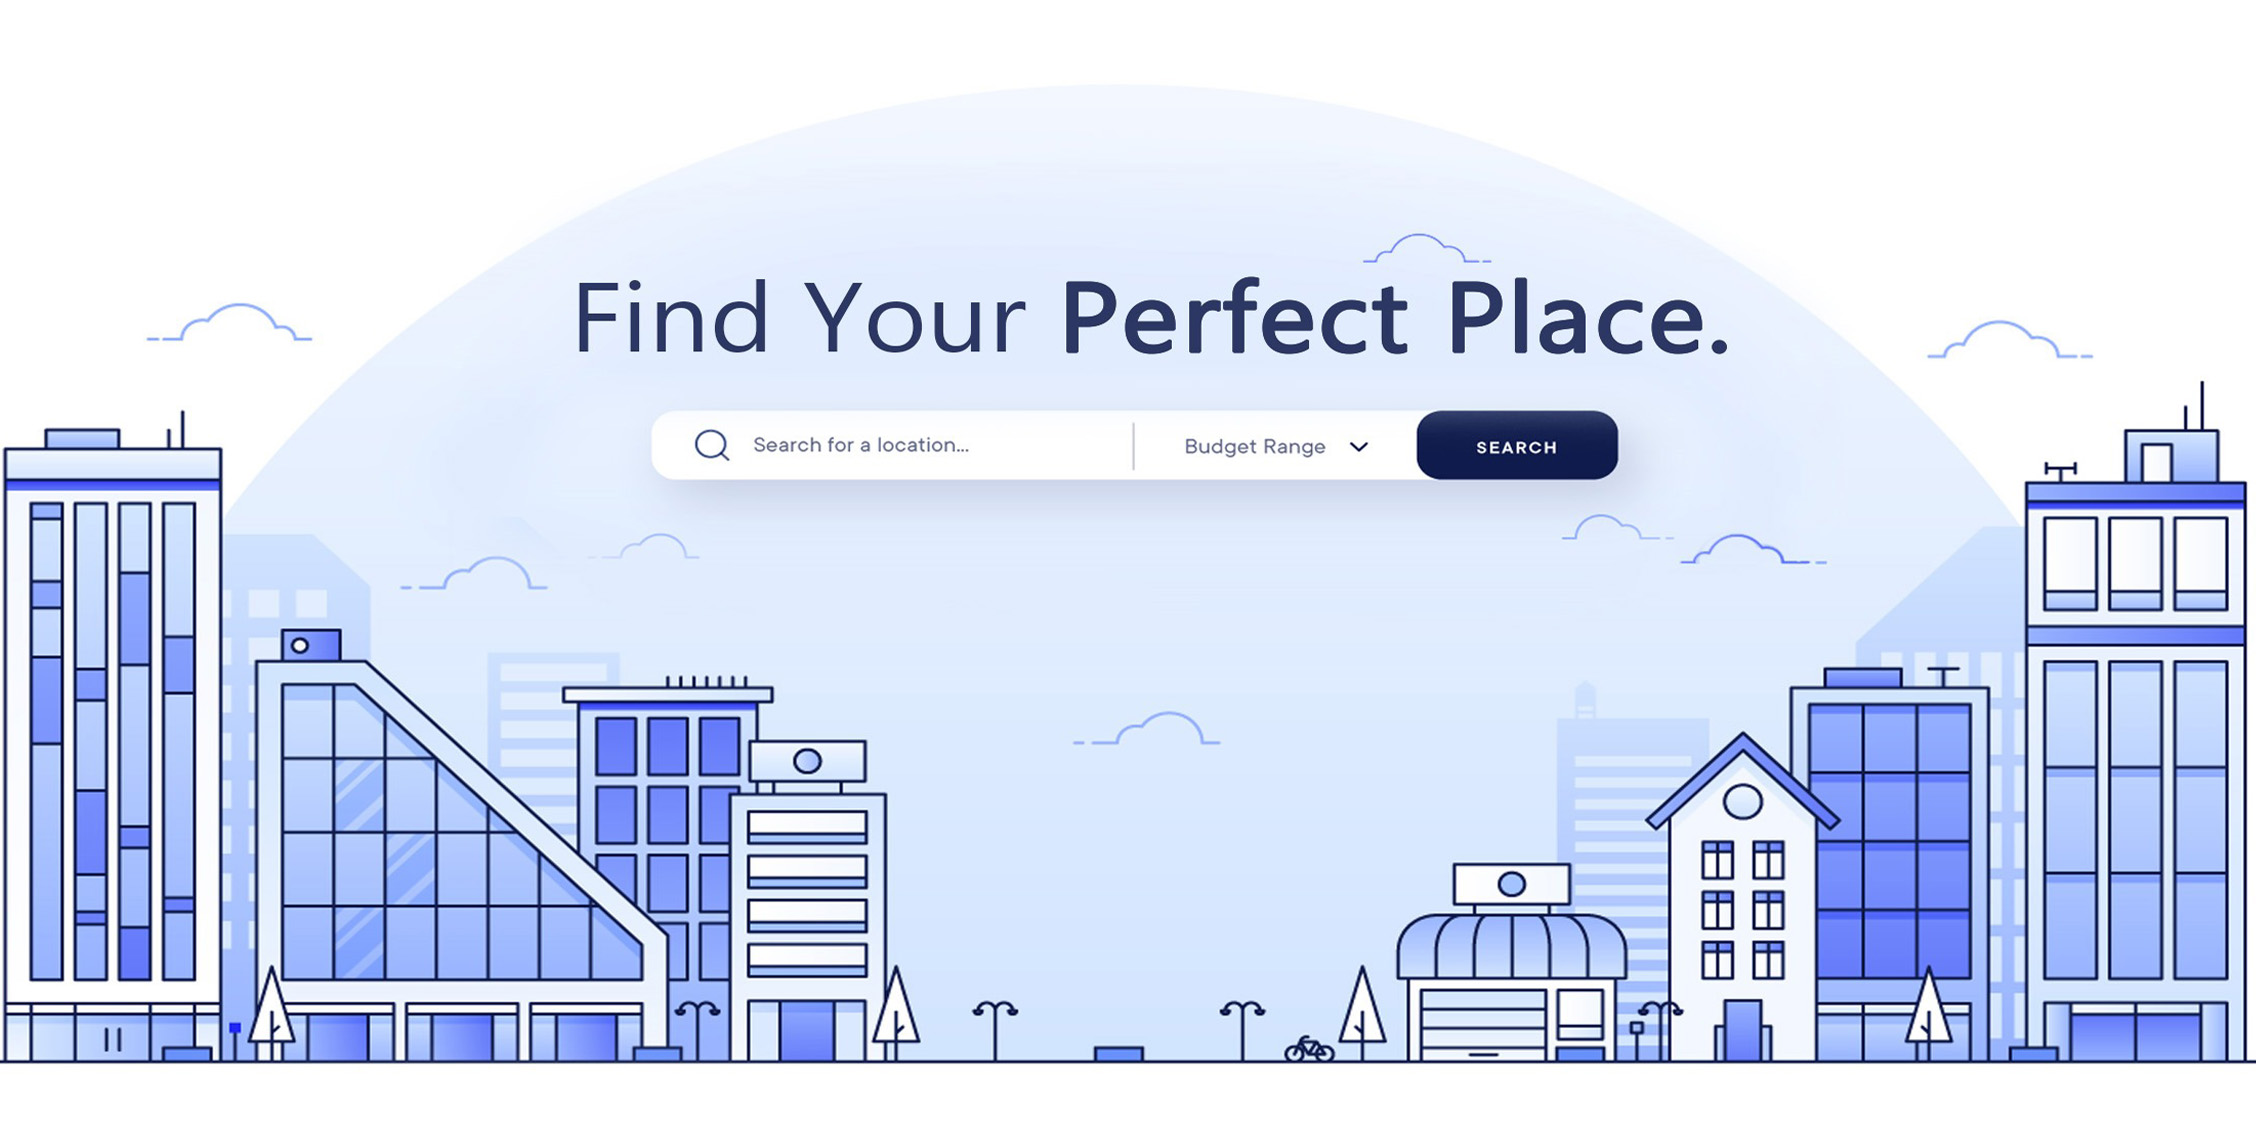
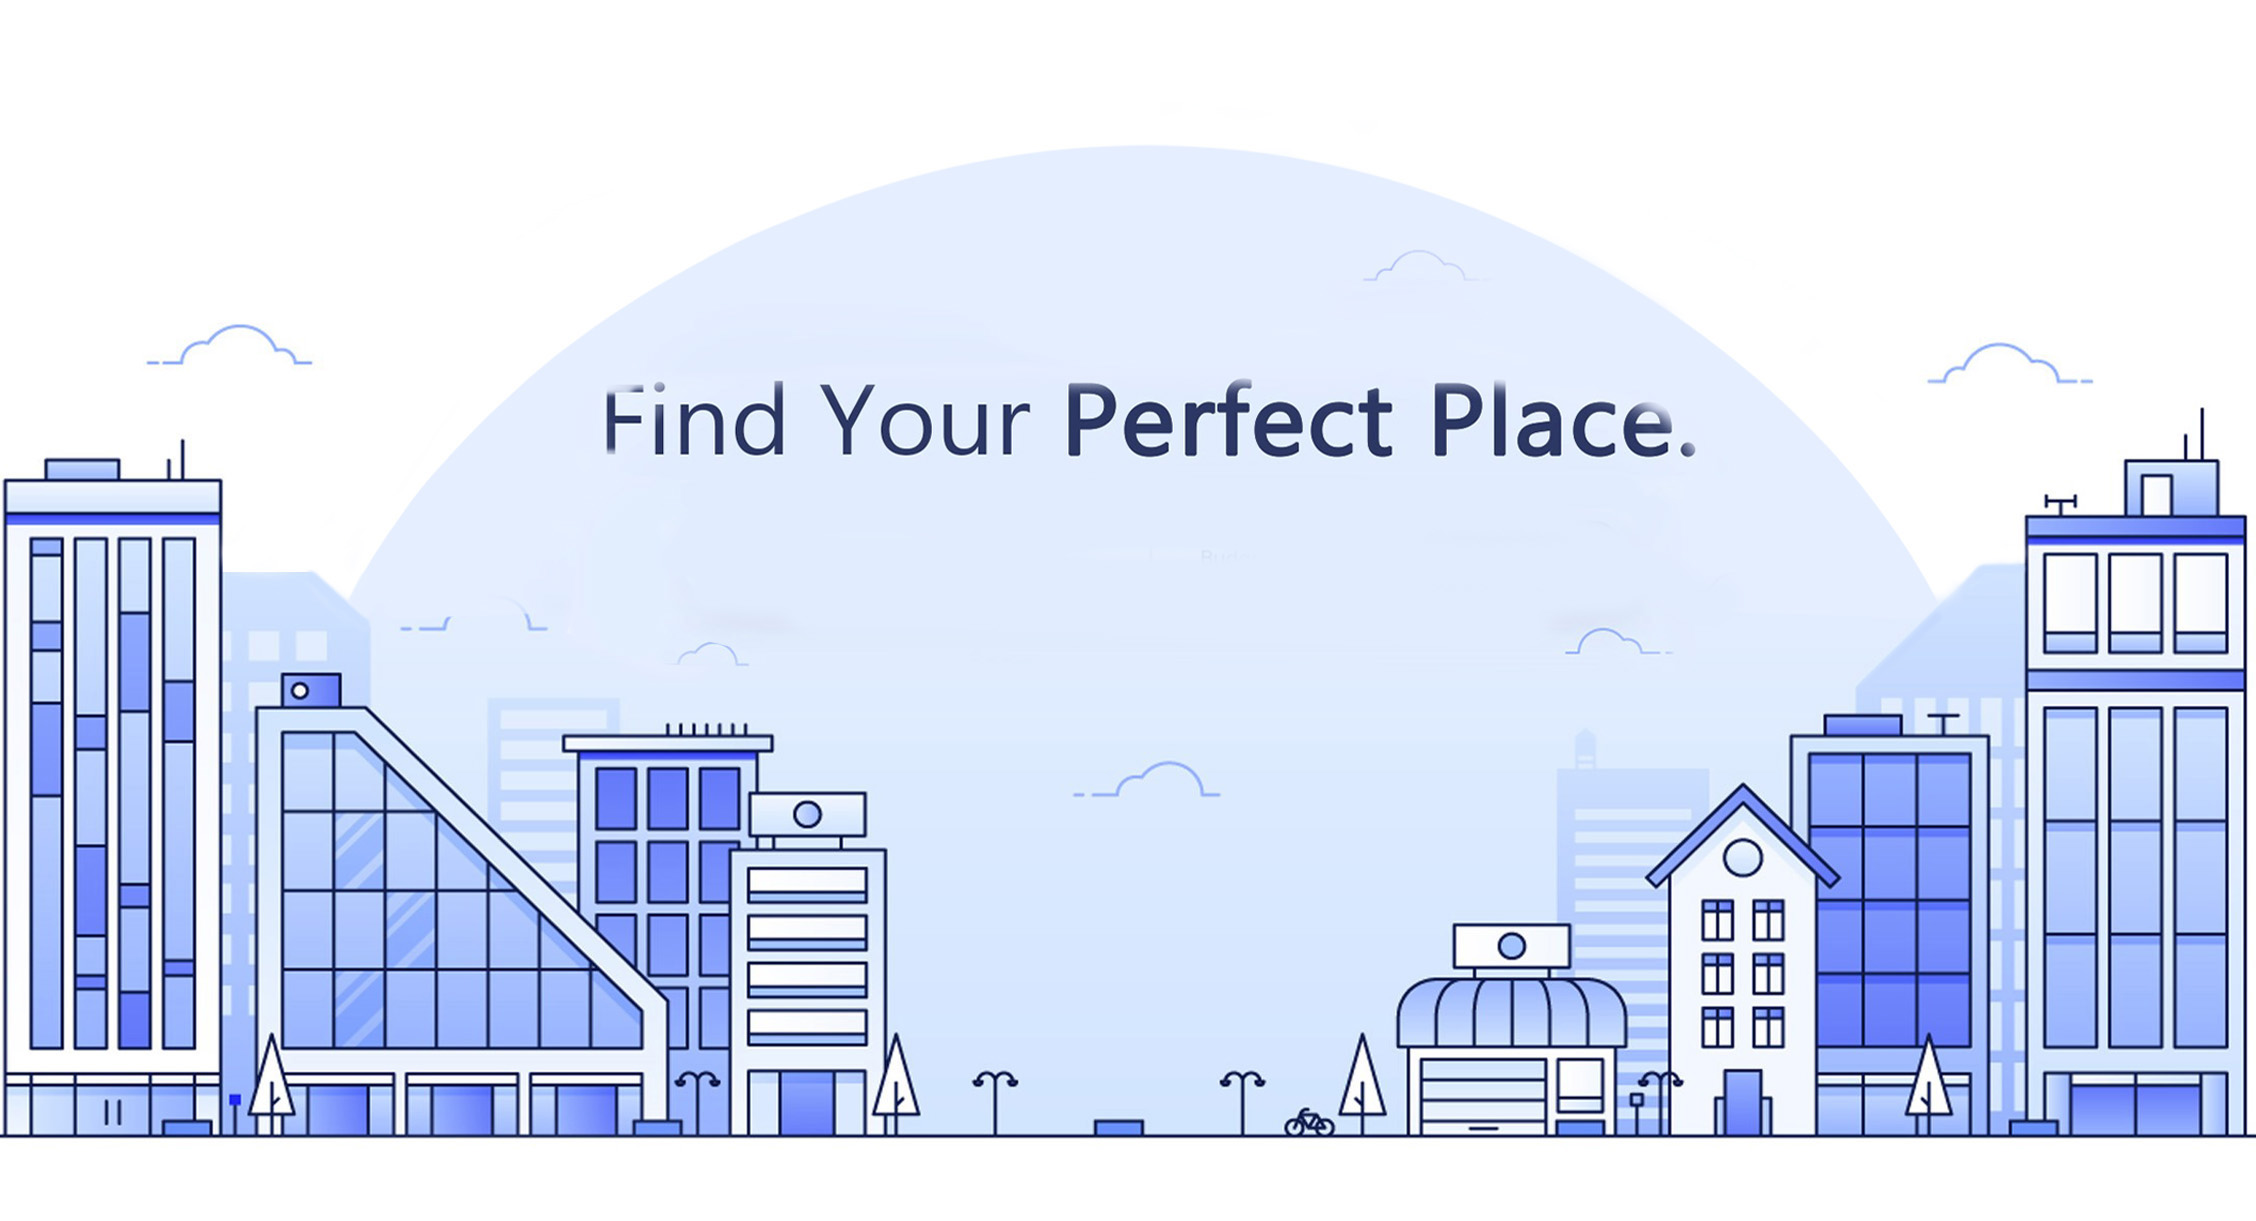
Hero Section  Modified

diff --git a/src/components/HeroSection.js b/src/components/HeroSection.js
@@ -1,8 +1,9 @@
 import React from 'react';
 import '../App.css';
-import { Button } from './Button';
+import { ButtonSearch } from './ButtonSearch';
 import './HeroSection.css';
-import hero4 from './hero4.jpg'
+import hero5 from './hero5.jpg'
+// import { Button } from './Button';
 import DropdownRoomate from './DropdownRoomate'
 
 
@@ -10,26 +11,31 @@ function HeroSection() {
   return (
     <div className='hero-container'>
       <div style={{
-        backgroundImage: `url(${require("./hero4.jpg")})`,
+        backgroundImage: `url(${require("./hero5.jpg")})`,
         backgroundPosition: 'center',
         backgroundSize: 'cover',
         backgroundRepeat: 'no-repeat',
         width: '100%',
         height: '100%'
-      }}></div>        <DropdownRoomate />
+      }}></div>
 
-      {/* <div className="wrapper">
-        {/* <div className="search_box">
+      <div className="wrapper">
+        <div className="search_box">
           <i className="fas fa-search"></i>
           <div className="search_field">
             <input type="text" className="input" placeholder="Search for a location..." />
           </div>
+
           <div className="dropdown">
-            <div className="default_option">Roomates</div>
+            <DropdownRoomate />
+            <ButtonSearch buttonStyle='btn--outline'>SEARCH</ButtonSearch>
+
+            {/* <div className="default_option">
+            </div> */}
+
           </div>
-        </div> 
-        <DropdownRoomate />
-      </div> */}
+        </div>
+      </div>
       {/* <h1>ADVENTURE AWAITS</h1>
       <p>What are you waiting for?</p>
       <div className='hero-btns'>

diff --git a/src/components/HeroSection.css b/src/components/HeroSection.css
@@ -82,18 +82,18 @@
 }
 
 .wrapper .search_box{
-  width: 500px;
+  width: 420px;
   background: #fff;
   border-radius: 15px;
-  height: 5rem;
+    height: 5rem;
   display: flex;
   padding: 10px;
-  box-shadow: 0 8px 6px -10px #b3c6ff;
+  box-shadow: 0 8px 6px -5px #969595;
 }
 
 .wrapper .search_box .dropdown{
   width: 150px;
-  border-left: 2px solid #dde2f1;
+  /* border-left: 2px solid #dde2f1; */
   color: #9fa3b1;
   position: relative;
   cursor: pointer;
@@ -146,6 +146,9 @@
   width: 350px;
   height: 100%;
   position: relative;
+ border-right: 2px solid #dde2f1;
+ margin-right: 1rem;
+
 }
 
 .wrapper .search_box .search_field .input{
@@ -155,6 +158,7 @@
   font-size: 16px;
   padding-left: 20px;
   padding-right: 38px;
+  padding-bottom: 0;
   outline-style: none;
   color: #131F4F;
 }
